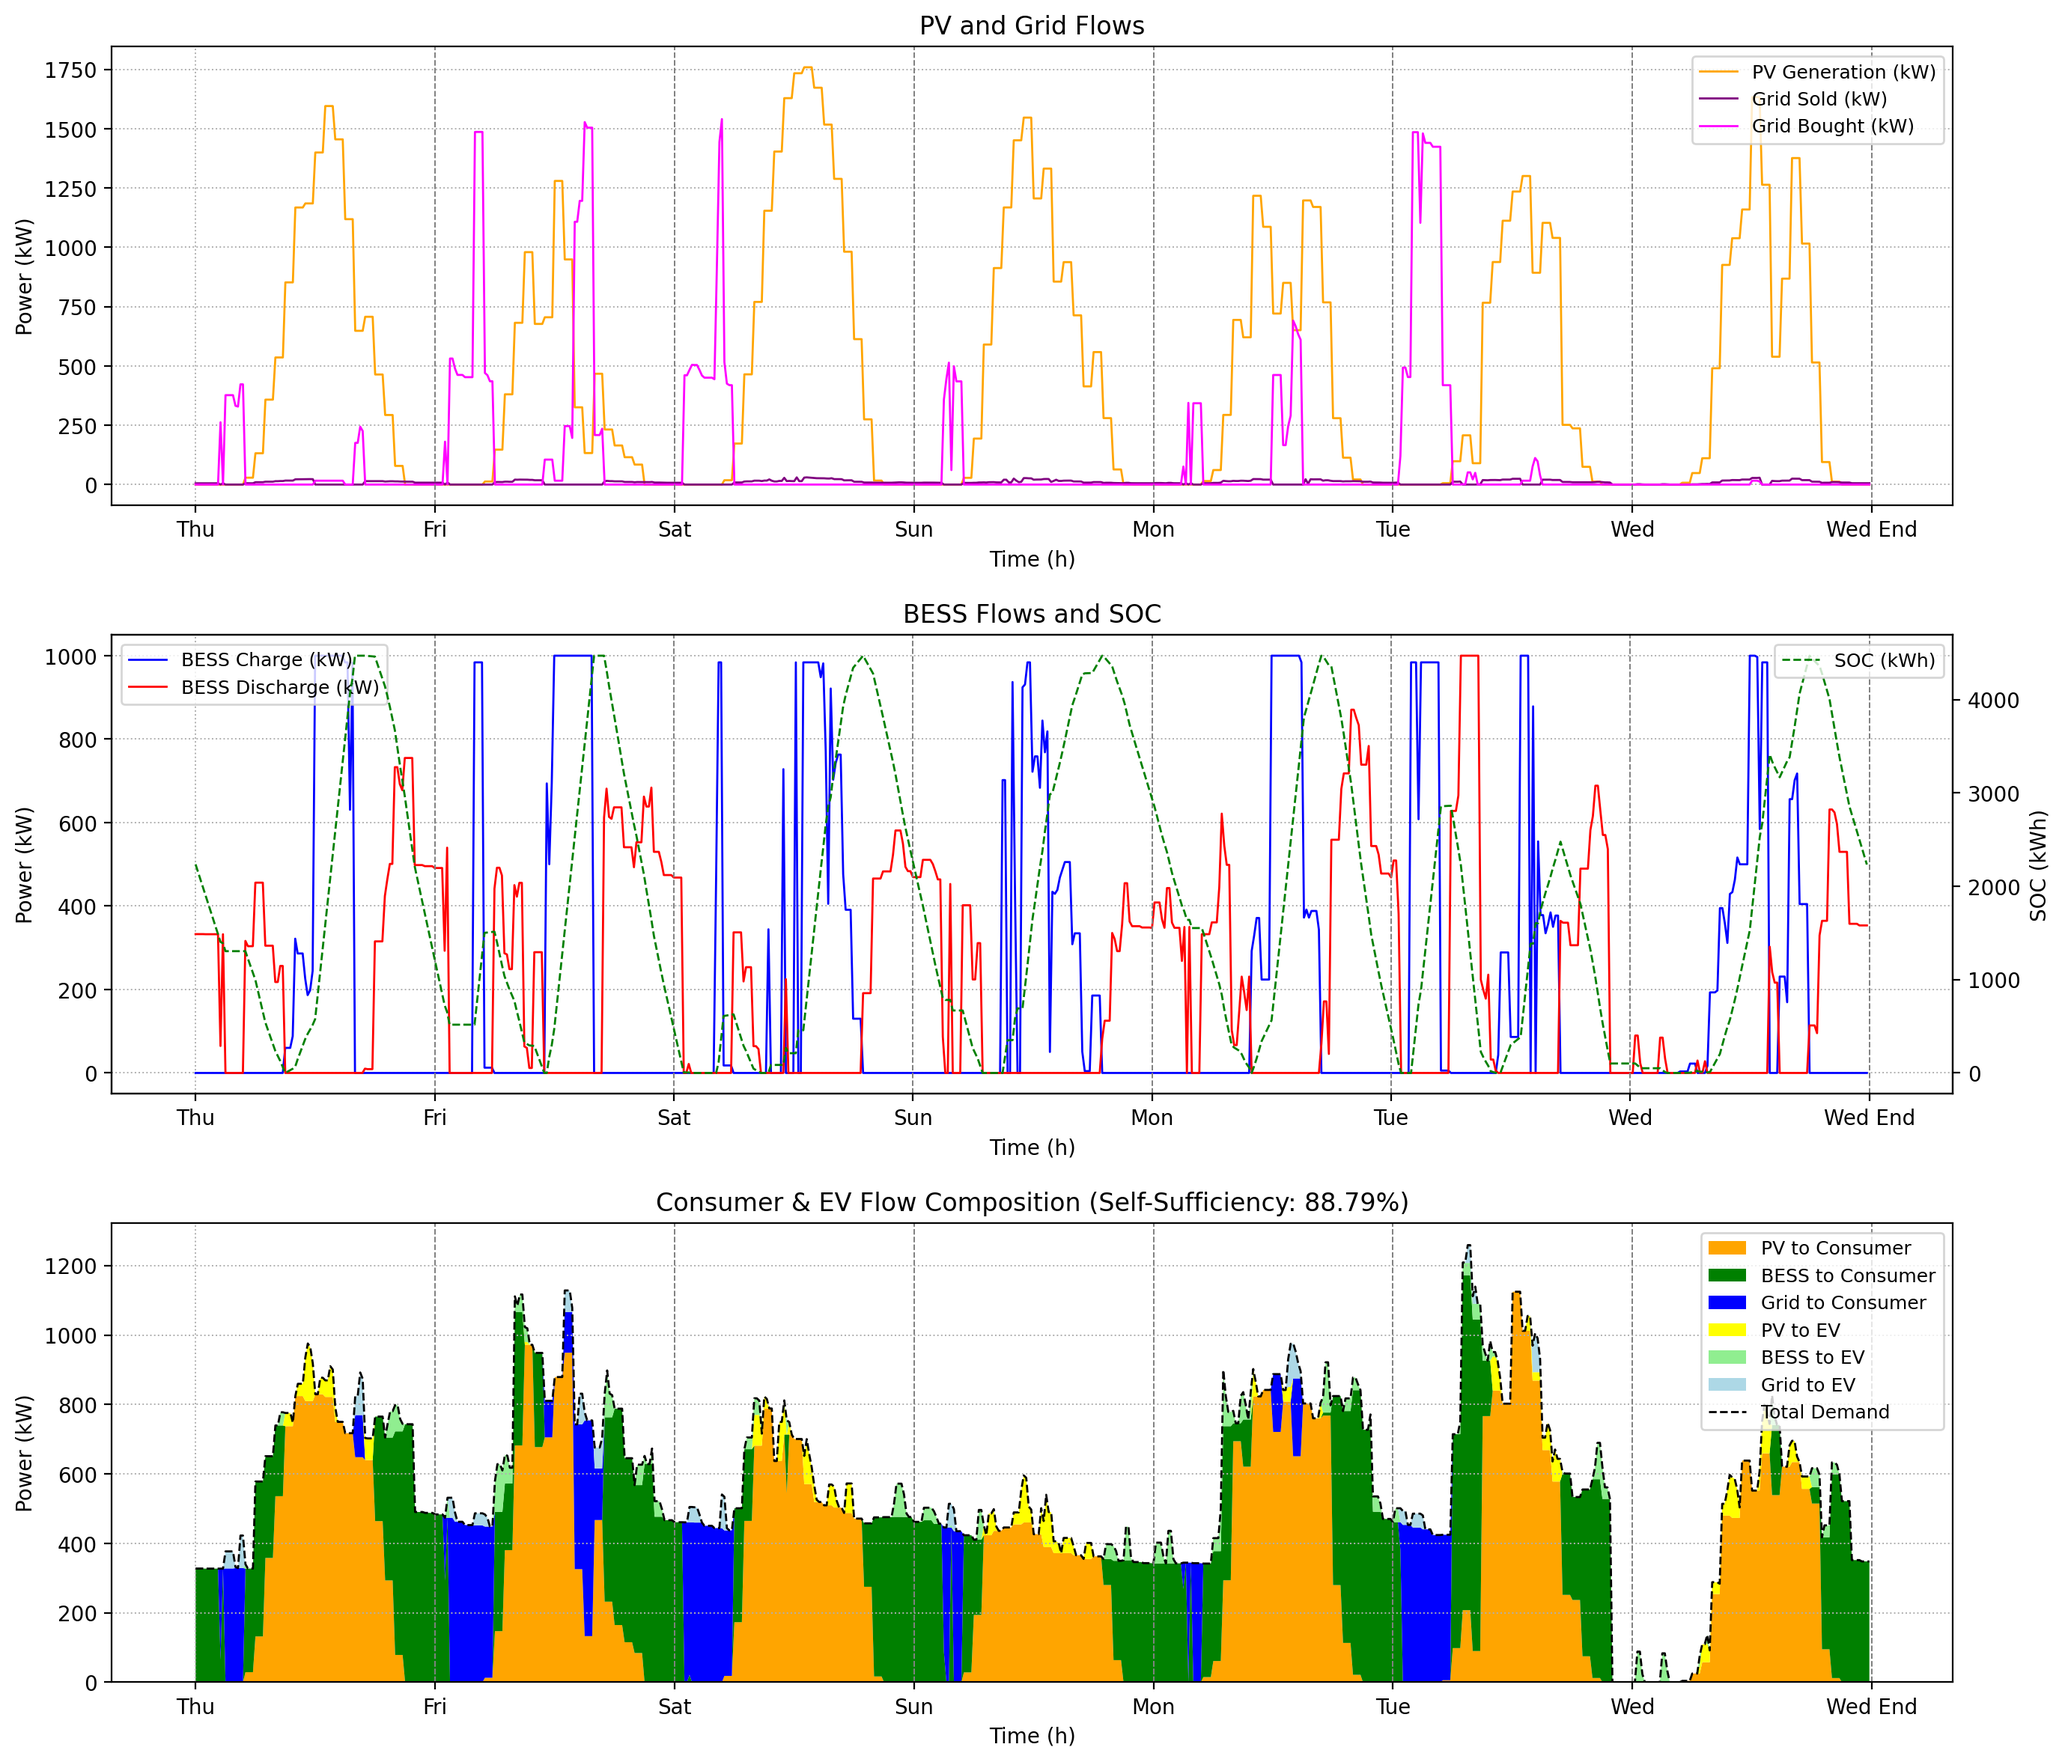
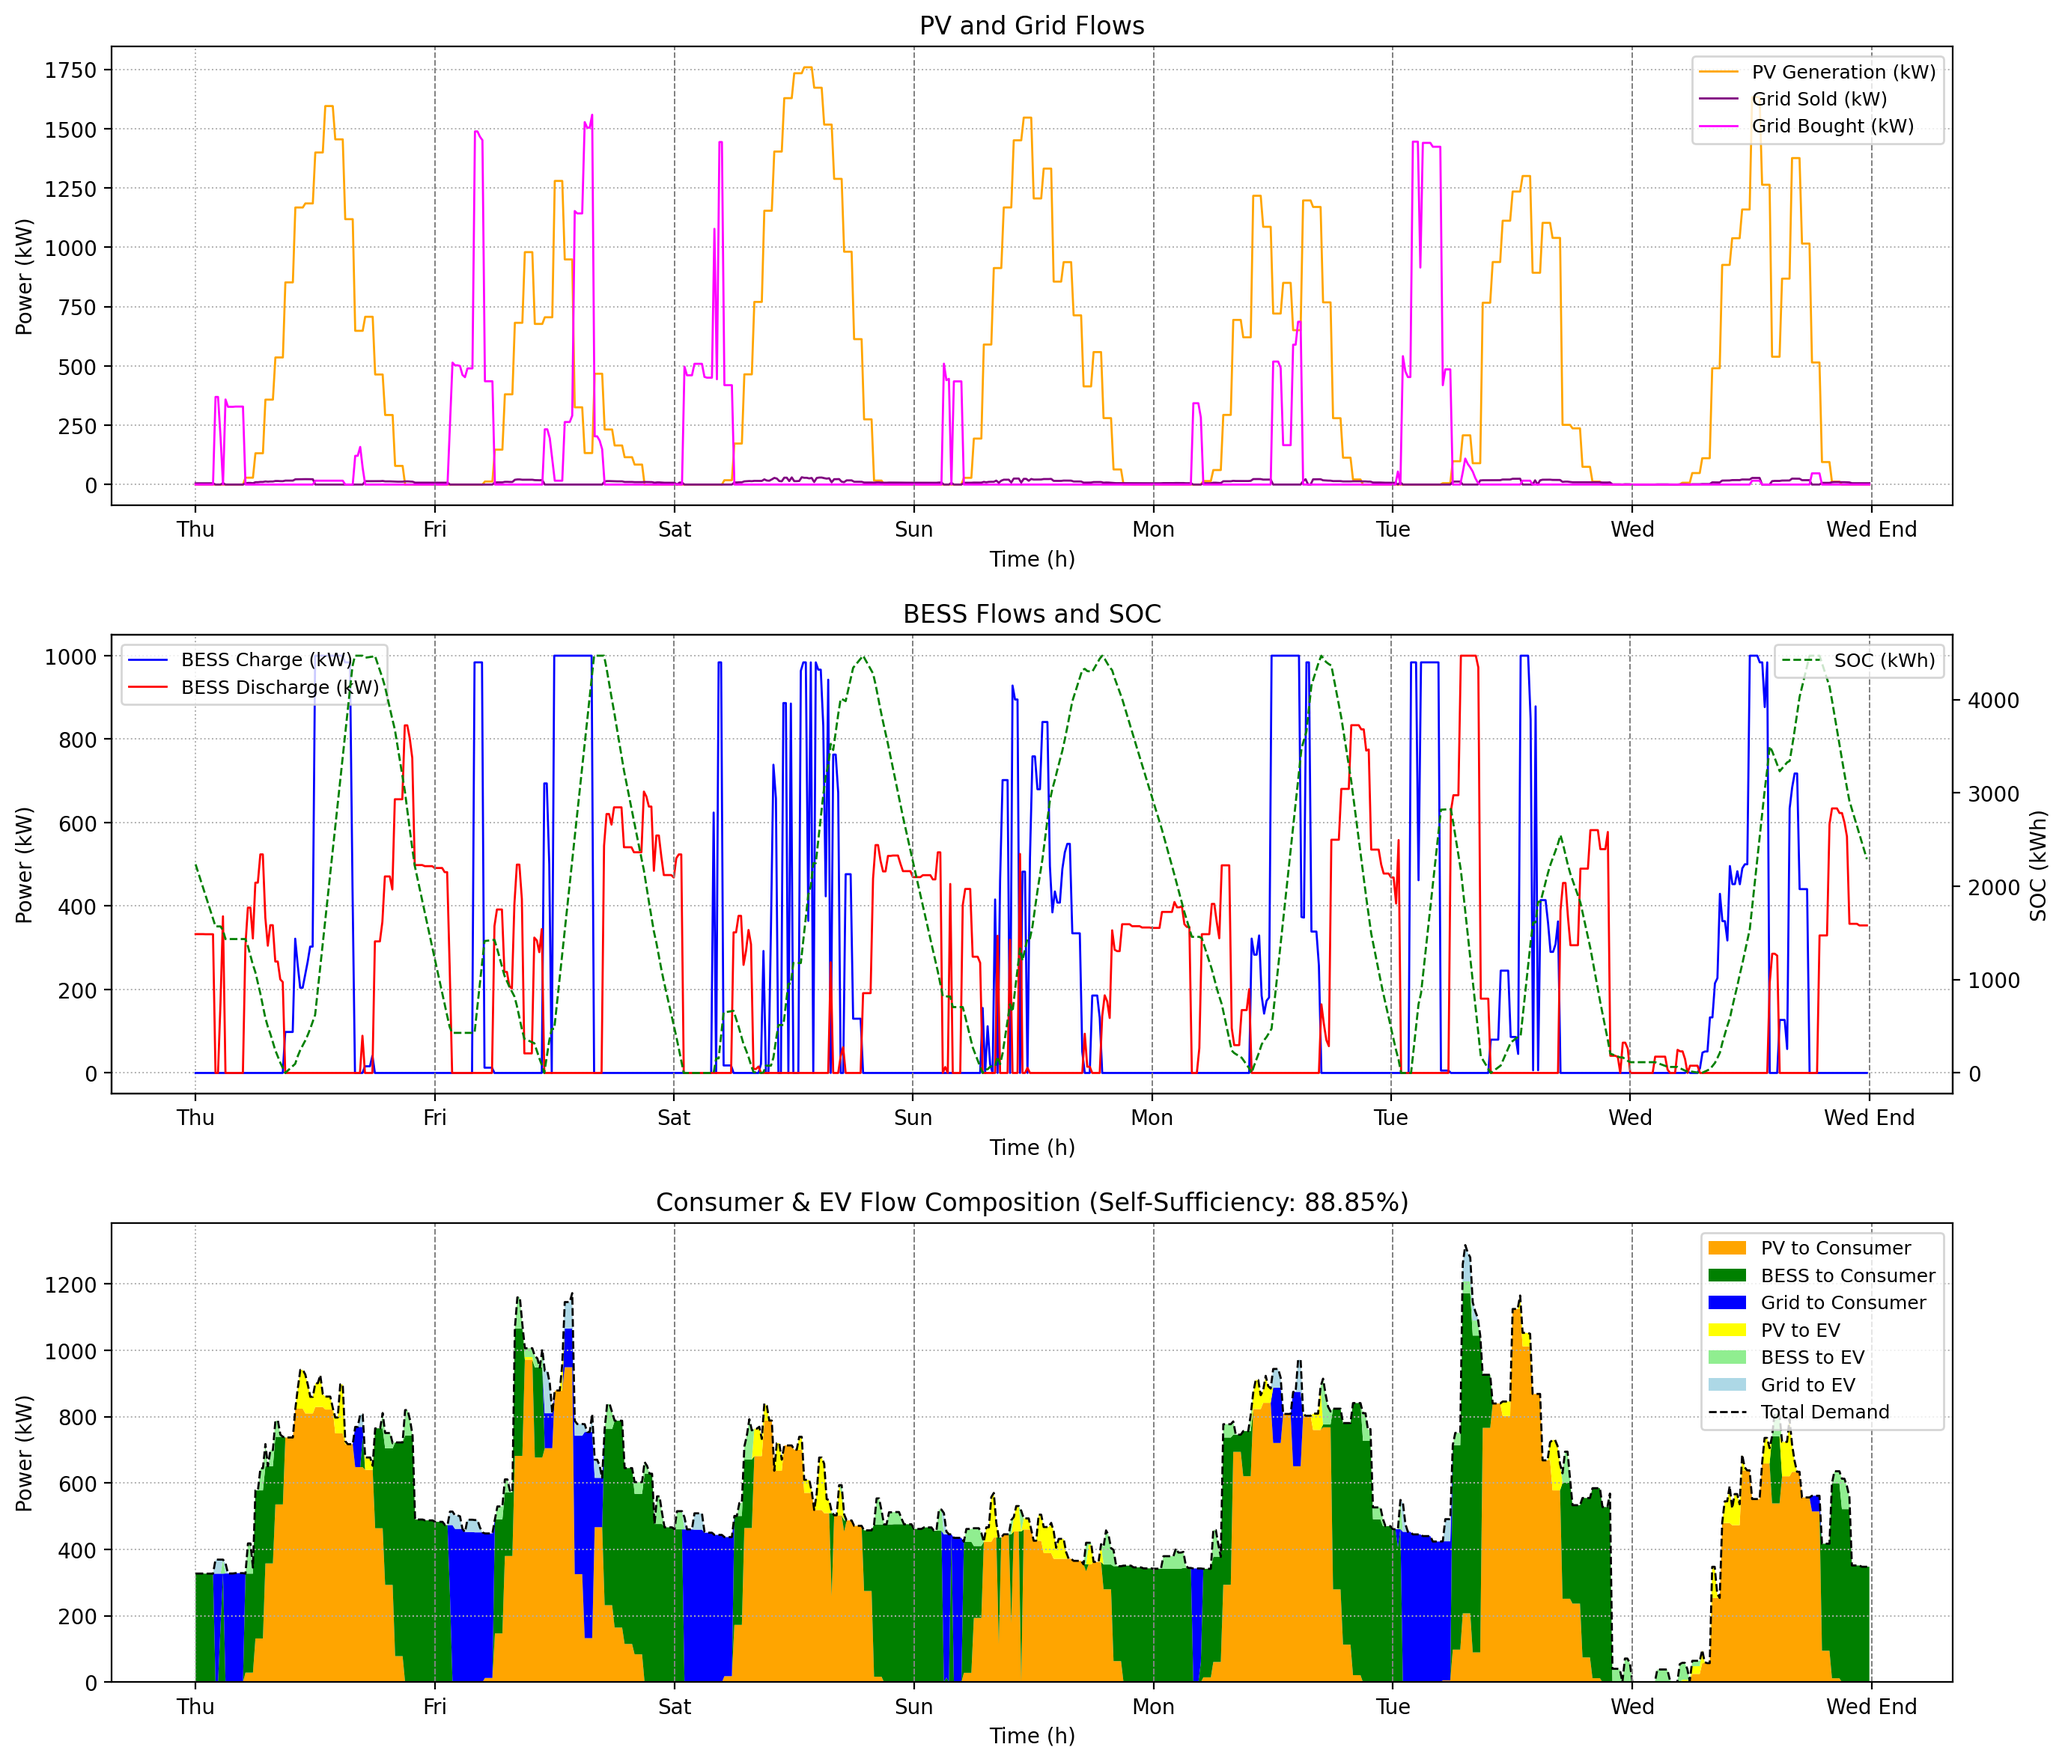
UPDATE

diff --git a/Computing Files/Sceme_Network.py b/Computing Files/Sceme_Network.py
@@ -1,0 +1,162 @@
+import pypsa
+import pandas as pd
+import numpy as np
+import os
+import matplotlib.pyplot as plt
+import networkx as nx
+
+# Import the MPC class from mpc.py (assuming it's in the same directory)
+from mpc import MPC
+
+# Function to build and plot the network with enhanced labels
+def plot_network_scheme():
+    # Instantiate MPC with a sample delta_t (e.g., 0.25 hours = 15 minutes)
+    mpc = MPC(delta_t=0.25)
+
+    # Provide dummy forecasts and parameters for a short horizon to build the network
+    # These are placeholders; actual values aren't needed for topology plot
+    horizon = 1  # Minimal horizon to build snapshots
+    soc = mpc.soc_initial  # Use initial SOC
+    pv_forecast = [10.0] * horizon  # Dummy PV forecast (kW)
+    demand_forecast = [5.0] * horizon  # Dummy consumer demand (kW)
+    ev_forecast = [2.0] * horizon  # Dummy EV demand (kW)
+    buy_forecast = [0.1] * horizon  # Dummy buy prices ($/kWh)
+    sell_forecast = [0.05] * horizon  # Dummy sell prices ($/kWh)
+    lcoe_pv = 0.05  # Unused, but required
+    pi_ev = 0.2  # Dummy EV incentive
+    pi_consumer = 0.15  # Dummy consumer incentive
+
+    # Simulate the network building here (copied from mpc.py's predict method)
+    snapshots = pd.date_range("2024-01-01", periods=horizon, freq=f'{int(mpc.delta_t*60)}min')
+    n = pypsa.Network()
+    n.set_snapshots(snapshots)
+
+    n.snapshot_weightings.objective = mpc.delta_t
+    n.snapshot_weightings.generators = mpc.delta_t
+    n.snapshot_weightings.stores = mpc.delta_t
+
+    # Add buses
+    n.add("Bus", "AC", carrier='AC')
+    n.add("Bus", "PV", carrier='DC')
+    n.add("Bus", "Grid", carrier='AC')
+    n.add("Bus", "BESS", carrier='DC')
+
+    # PV generator (PV bus)
+    pv_nom = max(pv_forecast)
+    pv_max = np.max(pv_forecast)
+    if pv_max == 0:
+        pv_max = 1
+    n.add("Generator", "PV", bus="PV", p_nom=pv_nom, p_max_pu=pv_forecast/pv_max, marginal_cost=0)
+
+    # BESS StorageUnit (BESS bus)
+    if mpc.bess_power_limit > 0 and mpc.bess_capacity > 0:
+        n.add("StorageUnit", "BESS", bus="BESS",
+              p_nom=mpc.bess_power_limit,
+              max_hours=mpc.bess_capacity/mpc.bess_power_limit,
+              efficiency_store=1.0,
+              efficiency_dispatch=1.0,
+              marginal_cost=0,
+              state_of_charge_initial=soc)
+    
+    # Link for grid charging BESS
+    n.add("Link", "Grid_to_BESS", bus0="Grid", bus1="BESS", p_nom=mpc.bess_power_limit, efficiency=mpc.eta_charge, marginal_cost=0)
+    
+    # Link for PV charging BESS
+    n.add("Link", "PV_to_BESS", bus0="PV", bus1="BESS", p_nom=mpc.bess_power_limit, efficiency=mpc.eta_charge, marginal_cost=0)
+    
+    # Link for BESS discharge to AC bus
+    n.add("Link", "BESS_to_AC", bus0="BESS", bus1="AC", p_nom=mpc.bess_power_limit, efficiency=mpc.eta_discharge, marginal_cost=0)
+
+    # DC/AC converter for PV direct supply to AC bus
+    n.add("Link", "PV_to_AC", bus0="PV", bus1="AC", p_nom=pv_nom, efficiency=0.98, marginal_cost=0)
+
+    # Grid import/export as Links
+    max_grid_import = np.max(demand_forecast) + np.max(ev_forecast) + mpc.bess_power_limit
+    max_grid_export = np.max(pv_forecast) + mpc.bess_power_limit
+    n.add("Link", "Grid_Import", bus0="Grid", bus1="AC", p_nom=max_grid_import, efficiency=1.0, marginal_cost=0, carrier='AC')
+    n.add("Link", "Grid_Export", bus0="AC", bus1="Grid", p_nom=max_grid_export, efficiency=1.0, marginal_cost=0, carrier='AC')
+    
+    # Grid source generator
+    n.add("Generator", "Grid_Source", bus="Grid", p_nom=1e9, marginal_cost=0)
+
+    # Loads
+    n.add("Load", "Consumer", bus="AC", p_set=0, marginal_cost=-pi_consumer)
+    n.add("Load", "EV", bus="AC", p_set=0, marginal_cost=-pi_ev)
+
+    # Create a directed graph
+    G = nx.DiGraph()
+
+    # Add nodes (buses)
+    for bus in n.buses.index:
+        G.add_node(bus)
+
+    # Add directed edges for links
+    for idx, row in n.links.iterrows():
+        G.add_edge(row.bus0, row.bus1, name=idx, efficiency=row.efficiency, marginal_cost=row.marginal_cost)
+
+    # Define custom positions for better layout
+    pos = {
+        'Grid': (-2, 0),
+        'AC': (2, 0),
+        'PV': (0, 2),
+        'BESS': (0, -2)
+    }
+
+    # Bus colors
+    bus_colors_dict = {'AC': 'blue', 'PV': 'green', 'Grid': 'red', 'BESS': 'orange'}
+    node_colors = [bus_colors_dict.get(node, 'gray') for node in G.nodes()]
+
+    # Prepare edge labels
+    edge_labels = {}
+    for u, v, d in G.edges(data=True):
+        label = f"{d['name']}\neff: {d['efficiency']:.2f}\ncost: {d['marginal_cost']:.2f}"
+        edge_labels[(u, v)] = label
+
+    # Plot using networkx
+    fig, ax = plt.subplots(figsize=(12, 10))
+    nx.draw_networkx_nodes(G, pos, node_color=node_colors, node_size=2000, ax=ax)
+    nx.draw_networkx_labels(G, pos, font_size=10, ax=ax)  # Bus labels
+
+    # Separate edges: straight for most, curved for Grid_Export to avoid overlap
+    straight_edges = [(u, v) for u, v in G.edges if not (u == 'AC' and v == 'Grid')]
+    curved_edges = [(u, v) for u, v in G.edges if u == 'AC' and v == 'Grid']
+
+    # Draw straight edges with arrows
+    nx.draw_networkx_edges(G, pos, edgelist=straight_edges, arrows=True, arrowstyle='->', arrowsize=20, width=2.0, ax=ax)
+
+    # Draw curved edge for export with arrow
+    nx.draw_networkx_edges(G, pos, edgelist=curved_edges, arrows=True, arrowstyle='->', arrowsize=20, width=2.0, connectionstyle='arc3,rad=0.3', ax=ax)
+
+    # Draw edge labels with horizontal orientation
+    nx.draw_networkx_edge_labels(G, pos, edge_labels=edge_labels, font_color='black', font_size=8, ax=ax, rotate=False)
+
+    # Add title
+    plt.title("Energy Network Topology with Labels")
+
+    # Add annotations for attached components
+    annotation_offset = 0.3  # Increased slightly for better spacing
+    for bus in n.buses.index:
+        bus_pos = pos[bus]
+        # Generators at bus
+        gens = n.generators[n.generators.bus == bus].index
+        if not gens.empty:
+            ax.text(bus_pos[0], bus_pos[1] + annotation_offset, f"Gens: {', '.join(gens)}", ha='center', va='bottom', fontsize=8)
+        # Loads
+        loads = n.loads[n.loads.bus == bus].index
+        if not loads.empty:
+            ax.text(bus_pos[0], bus_pos[1] - annotation_offset, f"Loads: {', '.join(loads)}", ha='center', va='top', fontsize=8)
+        # Storage
+        stores = n.storage_units[n.storage_units.bus == bus].index
+        if not stores.empty:
+            ax.text(bus_pos[0], bus_pos[1] - 2*annotation_offset, f"Storage: {', '.join(stores)}", ha='center', va='top', fontsize=8)
+
+    # Adjust limits and show
+    plt.tight_layout()
+    plt.show()
+
+    # Optionally save it
+    plt.savefig('energy_network_scheme_enhanced.png', dpi=300, bbox_inches='tight')
+
+# Call the function to plot
+if __name__ == "__main__":
+    plot_network_scheme()

diff --git a/Computing Files/mpc.py b/Computing Files/mpc.py
@@ -26,7 +26,7 @@ class MPC:
         self.bess_percent_limit = params['BESS_limit']
         self.converter_efficiency = params.get('CONVERTER_EFFICIENCY', 0.98)
 
-    def predict(self, soc, pv_forecast, demand_forecast, ev_forecast, buy_forecast, sell_forecast, lcoe_pv, pi_ev, pi_consumer, horizon):
+    def predict(self, soc, pv_forecast, demand_forecast, ev_forecast, buy_forecast, sell_forecast, lcoe_pv, pi_ev, pi_consumer, horizon, start_dt):
         # Debug: print input parameters
         print("PV forecast (first 5):", pv_forecast[:5])
         print("BESS power limit:", self.bess_power_limit)
@@ -35,7 +35,8 @@ class MPC:
         print("Consumer demand (first 5):", demand_forecast[:5])
         print("EV demand (first 5):", ev_forecast[:5])
 
-        snapshots = pd.date_range("2024-01-01", periods=horizon, freq=f'{int(self.delta_t*60)}min')
+        # Use actual simulation start date for snapshots
+        snapshots = pd.date_range(start_dt, periods=horizon, freq=f'{int(self.delta_t*60)}min')
         n = pypsa.Network()
         n.set_snapshots(snapshots)
 
@@ -45,6 +46,7 @@ class MPC:
 
         # Add buses
         n.add("Bus", "AC", carrier='AC')
+        n.add("Bus", "DC", carrier='DC')
         n.add("Bus", "PV", carrier='DC')
         n.add("Bus", "Grid", carrier='AC')
         n.add("Bus", "BESS", carrier='DC')
@@ -86,18 +88,19 @@ class MPC:
         n.add("Link", "Grid_Import", bus0="Grid", bus1="AC", p_nom=max_grid_import, efficiency=1.0, marginal_cost=0, carrier='AC')
         n.add("Link", "Grid_Export", bus0="AC", bus1="Grid", p_nom=max_grid_export, efficiency=1.0, marginal_cost=0, carrier='AC')
         
+        # BIG generator at Grid bus (reference, cost = buy_forecast)
+        n.add("Generator", "Grid_Source", bus="Grid", p_nom=max_grid_import, marginal_cost=0)
+        max_grid_import = 1e9
+        
         #Revenue of selling Energy
         n.links_t.marginal_cost["Grid_Export"] = -pd.Series(sell_forecast, index=n.snapshots)
-
-        # Infinite generator at Grid bus (reference, cost = buy_forecast)
-        max_grid_import = 1e9
-        n.add("Generator", "Grid_Source", bus="Grid", p_nom=max_grid_import, marginal_cost=0)
+        
         #Cost of Energy Bought from Grid
         n.generators_t.marginal_cost["Grid_Source"] = pd.Series(buy_forecast, index=n.snapshots)
 
         # Loads with incentive EV at pi_ev, cons at pi_consumer
-        n.add("Load", "Consumer", bus="AC", p_set=0, marginal_cost=-pi_consumer)
-        n.add("Load", "EV", bus="AC", p_set=0, marginal_cost=-pi_ev)
+        n.add("Load", "Consumer", bus="AC", p_set=0, marginal_cost=0)
+        n.add("Load", "EV", bus="AC", p_set=0, marginal_cost=0)
         n.loads_t.p_set.loc[:, "Consumer"] = demand_forecast
         n.loads_t.p_set.loc[:, "EV"] = ev_forecast
 

diff --git a/Computing Files/main_Optimization.py b/Computing Files/main_Optimization.py
@@ -10,6 +10,7 @@ import plots
 import sys
 import os
 import openpyxl
+import pandas as pd  # Import pandas for handling datetime
 # Print Python executable path for debugging environment issues
 print(sys.executable)
 
@@ -77,9 +78,12 @@ for t in range(n_steps):
     buy_forecast = pad_to_horizon(data['grid_buy_price'][t:t + horizon], horizon)
     sell_forecast = pad_to_horizon(data['grid_sell_price'][t:t + horizon], horizon)
 
+    # Calculate the correct start_dt for this forecast window
+    current_start_dt = data['start_dt'] + pd.Timedelta(minutes=15*t)
+
     control = mpc_controller.predict(
         soc_actual[t], pv_forecast, demand_forecast, ev_forecast,
-        buy_forecast, sell_forecast, data['lcoe_pv'], data['pi_ev'], data['pi_consumer'], horizon
+        buy_forecast, sell_forecast, data['lcoe_pv'], data['pi_ev'], data['pi_consumer'], horizon, current_start_dt
     )
 
     # Store results for each timestep

diff --git a/Computing Files/load_data.py b/Computing Files/load_data.py
@@ -132,6 +132,7 @@ def load(reference_case=False, API_Prices=False):
         'start_weekday': start_weekday,
         'n_steps': n_steps,
         'delta_t': delta_t,
+        'start_dt': start_dt,
         'time_steps': time_steps,
         'time_indices': time_indices
     }
